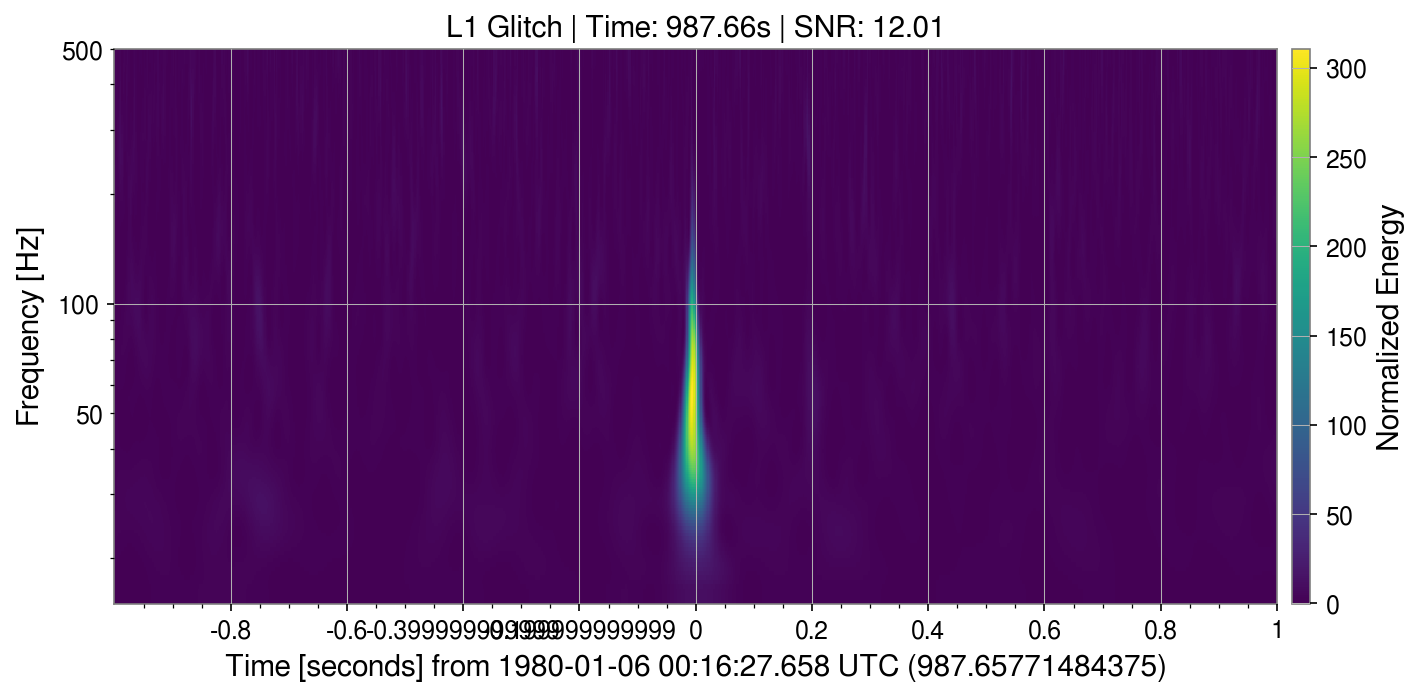
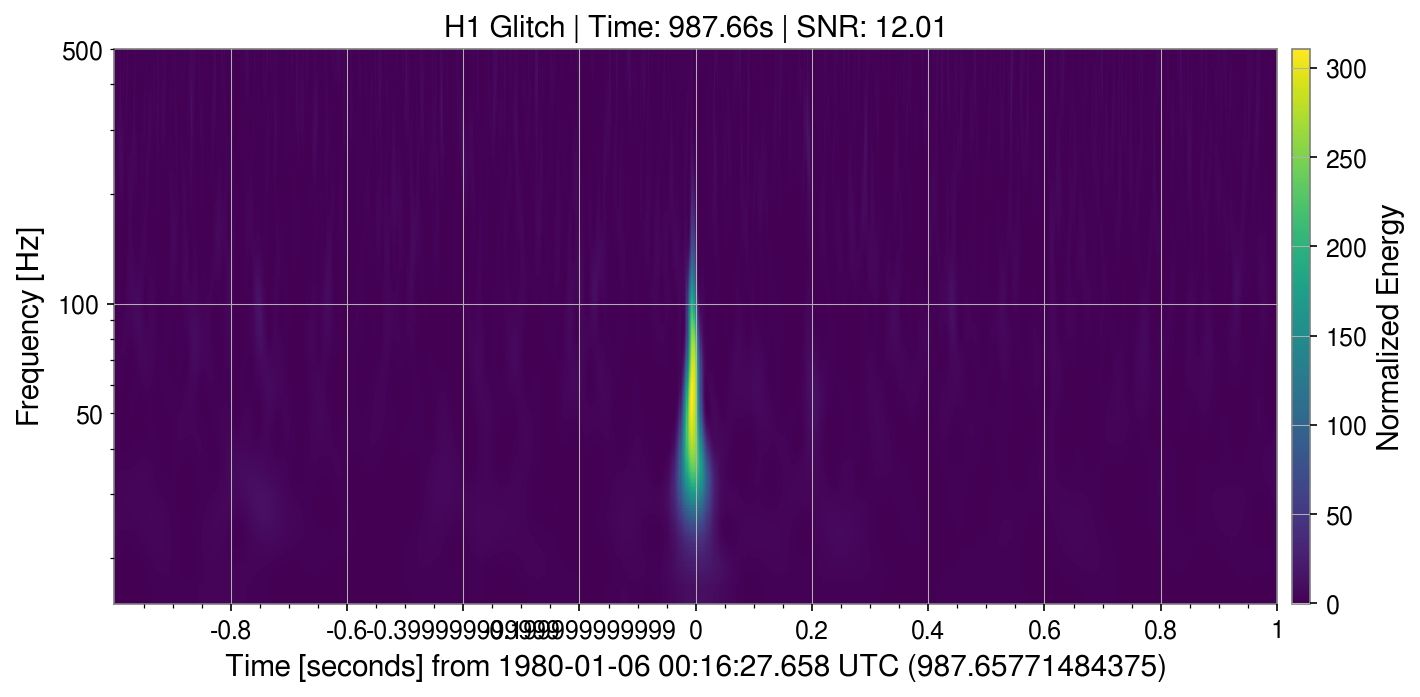
Fix: Replace H1 glitch image with incorrect title and update readme

Changed region(s): [[0.3099, 0.0, 0.6817, 0.0603]]

diff --git a/README.md b/README.md
@@ -19,11 +19,7 @@
 
 ## Overview
 
-This project solves the four challenges of the GWOSC Open Data Workshop 2026, progressing from basic signal visualization to a full Bayesian parameter estimation pipeline. The signals analyzed correspond to binary black hole (BBH) mergers injected into both simulated Gaussian noise and real LIGO O2 detector data.
-
-<!-- Add a banner image or a representative Q-transform plot here -->
-<!-- ![Banner](images/banner.png) -->
-
+This project solves the four challenges of the GWOSC Open Data Workshop 2026, progressing from basic signal visualization to a full Bayesian parameter estimation pipeline. The signals analyzed correspond to binary black hole (BBH) mergers injected into both simulated Gaussian noise and real LIGO O2 detector data. The file `GWOSC_workshop.ipynb` contains the code, and more detailed explanaition and discussion.
 ---
 
 ## Challenge Structure